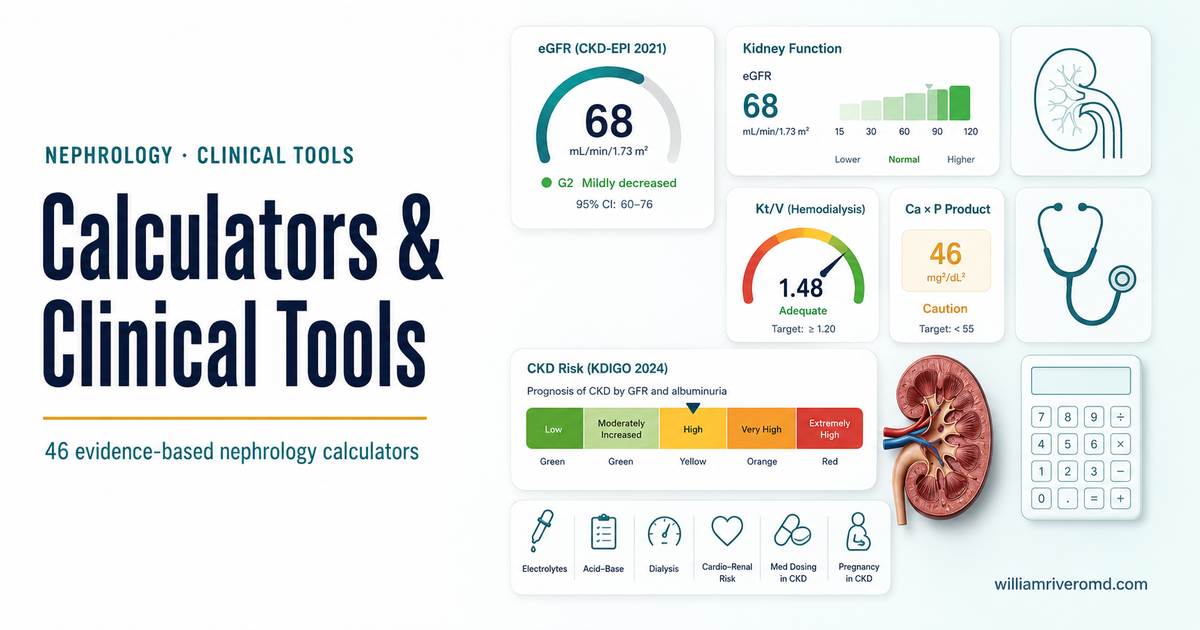
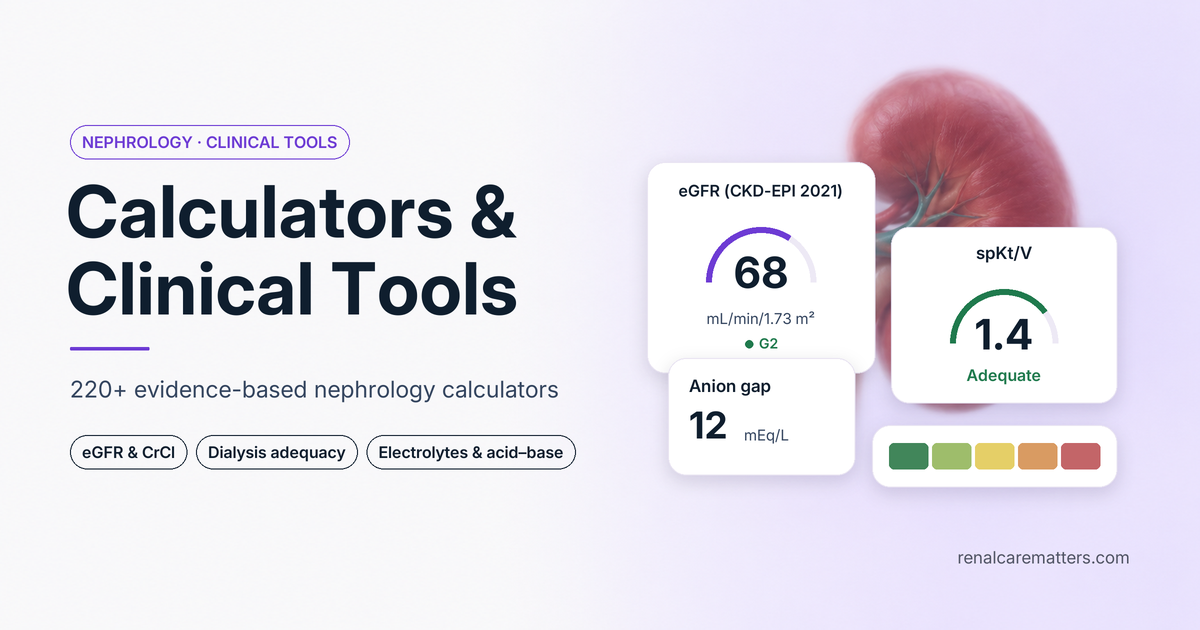
Calculators index: new share image (renalcarematters.com attribution, 220+ calculators, no Ca x P target) with cache-busting and updated alt text
Claude-Session: https://claude.ai/code/session_01TPGn4JbvTCEkkuzADUhEdj

diff --git a/guides/calculators.html b/guides/calculators.html
@@ -24,16 +24,16 @@
 <meta property="og:title" content="Nephrology Calculators &amp; Clinical Tools · Renal Care Matters">
 <meta property="og:description" content="A standalone index of nephrology calculators — eGFR (CKD-EPI 2021), KFRE, Kt/V, CKD-MBD, anion gap, Cockcroft-Gault, iron dose, proteinuria staging — each with indications, formula, evidence and references.">
 <meta property="og:url" content="https://renalcarematters.com/guides/calculators.html">
-<meta property="og:image" content="https://renalcarematters.com/images/calculators-index-og.png">
+<meta property="og:image" content="https://renalcarematters.com/images/calculators-index-og.png?v=2">
 <meta property="og:image:width" content="1200">
 <meta property="og:image:height" content="630">
-<meta property="og:image:alt" content="Nephrology Calculators & Clinical Tools — a hub of 222 evidence-based nephrology calculators by W Rivero, MD">
+<meta property="og:image:alt" content="Calculators &amp; Clinical Tools · 220+ evidence-based nephrology calculators · renalcarematters.com">
 <meta property="og:locale" content="en_PH">
 <meta name="twitter:card" content="summary_large_image">
 <meta name="twitter:title" content="Nephrology Calculators &amp; Clinical Tools · Renal Care Matters">
 <meta name="twitter:description" content="A standalone index of nephrology calculators — eGFR (CKD-EPI 2021), KFRE, Kt/V, CKD-MBD, anion gap, Cockcroft-Gault, iron dose, proteinuria staging — each with formula, evidence and references.">
-<meta name="twitter:image" content="https://renalcarematters.com/images/calculators-index-og.png">
-<meta name="twitter:image:alt" content="Nephrology Calculators & Clinical Tools — a hub of 222 evidence-based nephrology calculators by W Rivero, MD">
+<meta name="twitter:image" content="https://renalcarematters.com/images/calculators-index-og.png?v=2">
+<meta name="twitter:image:alt" content="Calculators &amp; Clinical Tools · 220+ evidence-based nephrology calculators · renalcarematters.com">
 <link href="https://fonts.googleapis.com/css2?family=Manrope:wght@300;400;500;600;700;800&amp;family=Inter:wght@500;600;700;800&amp;family=Nunito+Sans:ital,wght@0,400;0,500;0,600;1,400&amp;display=swap" rel="stylesheet"/>
 <style>
   /* ═══════════════════════════════════════════════════════════════════════════
